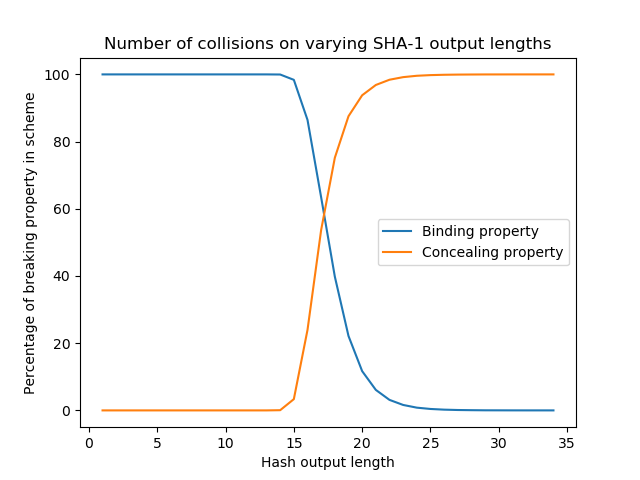
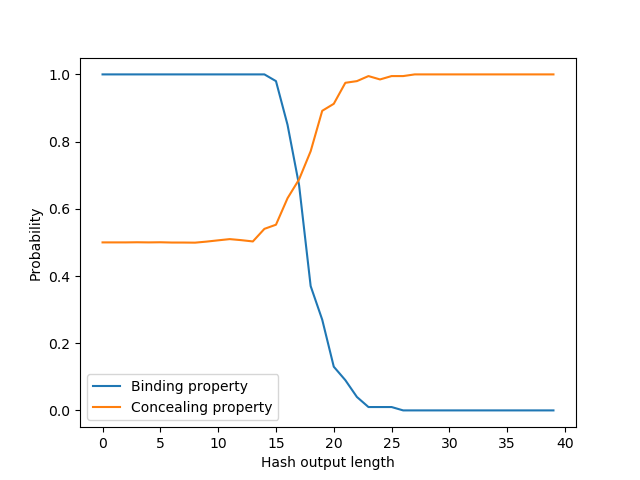
finished

diff --git a/B3/B1/commit2.py b/B3/B1/commit2.py
@@ -2,7 +2,7 @@ from random import randint
 import matplotlib.pyplot as plot
 import hashlib
 
-X_value = 35
+X_value = 40
 
 
 def generate_k_values():
@@ -59,7 +59,7 @@ def calc_concealing(X):
 
     if v == 1:
         return len(commits1) / (len(commits0) + len(commits1))
-        
+
     return len(commits0) / (len(commits0) + len(commits1))
 
 
@@ -67,7 +67,7 @@ def calc_probabilities():
     calculated_binding_prob = []
     calculated_concealing_prob = []
     x_values = []
-    iterations = 5
+    iterations = 100   
 
     for output_length in range(X_value):
         binding_values = []
@@ -91,8 +91,7 @@ def stats():
     plot.xlabel("Hash output length")
 
     plot.plot(x_values, calculated_binding_prob, label="Binding property")
-    plot.plot(x_values, calculated_concealing_prob,
-              label="Concealing property")
+    plot.plot(x_values, calculated_concealing_prob, label="Concealing property")
     plot.legend(loc='best')
     plot.show()
 
